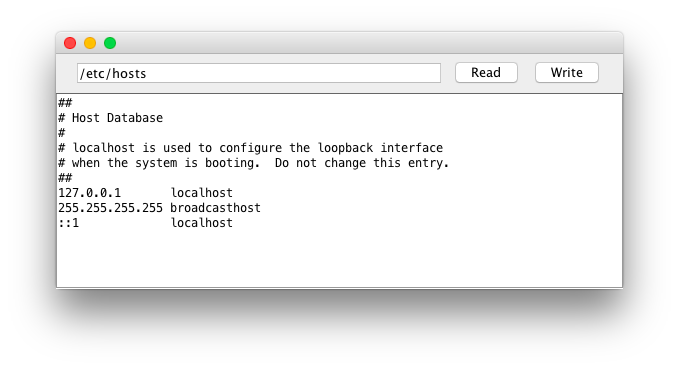
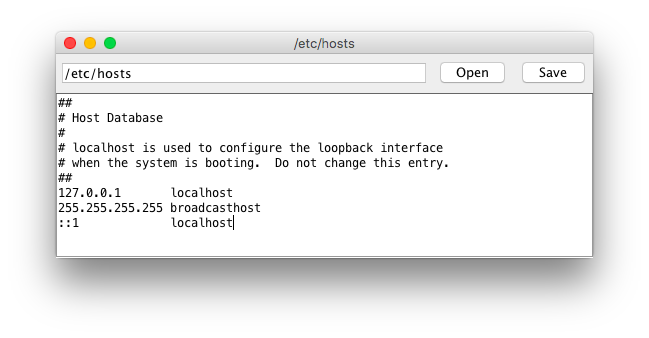
updated screen shot, added todos

Changed region(s): [[0.0616, 0.0888, 0.9245, 0.7988]]

diff --git a/src/com/texteditor/wf/TextEditor.java b/src/com/texteditor/wf/TextEditor.java
@@ -12,7 +12,6 @@ import java.io.FileWriter;
 import java.io.IOException;
 import java.io.PrintWriter;
 import java.util.Scanner;
-import javax.swing.Icon;
 import javax.swing.JButton;
 import javax.swing.JFrame;
 import javax.swing.JOptionPane;
@@ -44,6 +43,8 @@ public class TextEditor {
     // TODO Keyboard shortcuts
     // TODO Open recent
     // TODO Menu structure
+    // TODO Write tests
+    // TODO Set up CI/CD
   }
 
   public static void initiateGui() {
@@ -125,7 +126,6 @@ public class TextEditor {
   }
 
   public static void updateWriteButton() {
-    System.out.println("Unsaved changes: " + hasUnsavedChanges());
     writeButton.setEnabled(hasUnsavedChanges());
     writeButton.setText(hasUnsavedChanges() ? "Save" : "Saved");
   }

diff --git a/README.md b/README.md
@@ -24,4 +24,4 @@ java -cp out/production/texteditor/ com.texteditor.wf.TextEditor /path/to/text/f
 ```
 
 ## Usage
-To open a text file, enter its path in the text field then click "Read". If the file exists, it will load its contents to the text area. Make any desired changes. To save your changes, click the "Write" button.
+To open a text file, enter its path in the text field then press `Enter` or click "Open". If the file exists, it will load its contents to the text area. Make any desired changes. To save your changes, click the "Save" button. If there are no changes to save, the button will be disabled.
